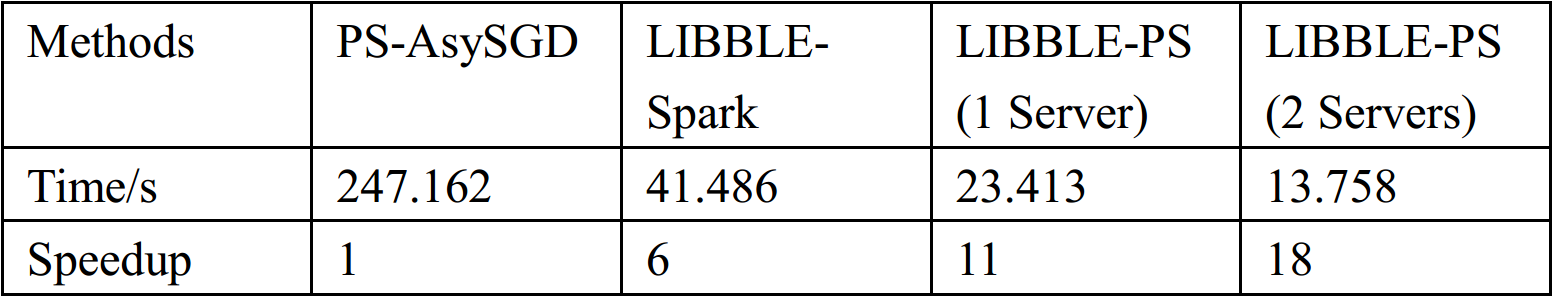
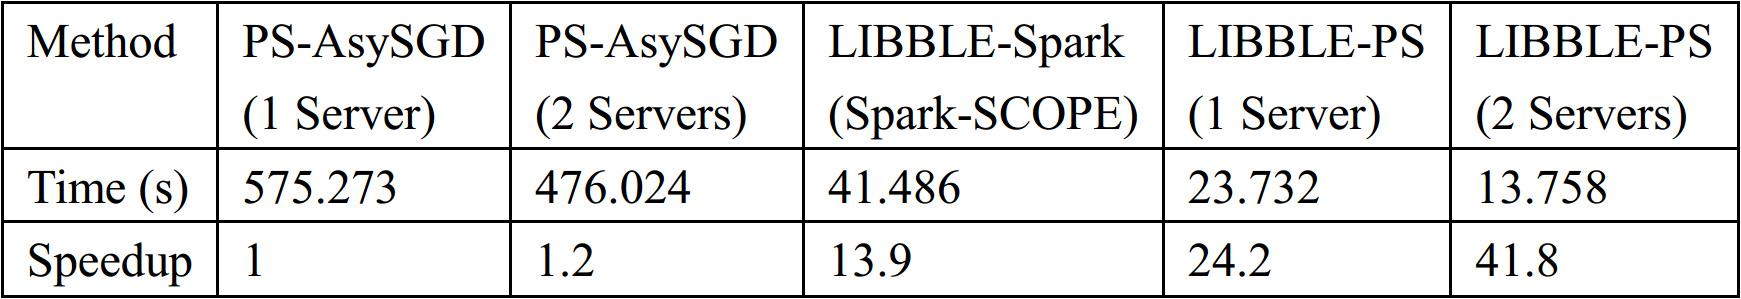
添加实验

diff --git a/libble-ps/index.html b/libble-ps/index.html
@@ -10,8 +10,8 @@
     <meta name="description" content="A Library for Big Learning">
 
     <link rel="stylesheet" href="/css/main.css">
-    <link rel="canonical" href="http://localhost:5001/libble-ps/">
-    <link rel="alternate" type="application/rss+xml" title="LIBBLE" href="http://localhost:5001/feed.xml" />
+    <link rel="canonical" href="https://libble.github.io/libble-ps/">
+    <link rel="alternate" type="application/rss+xml" title="LIBBLE" href="https://libble.github.io/feed.xml" />
 	<link type="image/x-icon" rel="shortcut icon" href="/images/icon.png" />
     <!-- <link href='https://fonts.googleapis.com/css?family=EB+Garamond' rel='stylesheet' type='text/css'>-->
 	<!-- mathjax config similar to math.stackexchange -->
@@ -202,7 +202,7 @@
 
 <p>The main Learning Engine for LIBBLE-PS is based on a distributed stochastic optimization algorithm called <a href="http://arxiv.org/abs/1602.00133">SCOPE (Scalable Composite OPtimization for lEarning)</a>. LIBBLE-PS can adopt multiple Servers and Workers in the same Parameter Server framework to achieve both data-parallelism and model-parallelism.</p>
 
-<p>We choose logistic regression (LR) with a L2-norm regularization term to evaluate LIBBLE-PS and other baselines. The result on webspam dataset (<a href="https://www.csie.ntu.edu.tw/~cjlin/libsvmtools/datasets/binary.html#webspam">$350,000$ points, $16,609,143$ dimension</a>) is shown below. Here, PS-AsySGD is the asynchronous SGD based Parameter Server proposed in <a href="http://www.cs.cmu.edu/~muli/file/parameter_server_osdi14.pdf">Mu Li, et al. OSDI 2014</a>. PS-AsySGD is implemented based on <a href="https://github.com/dmlc/ps-lite">ps-lite</a> provided by the authors of <a href="http://www.cs.cmu.edu/~muli/file/parameter_server_osdi14.pdf">Mu Li, et al. OSDI 2014</a>. Most other existing Parameter Server baselines have similar performance as PS-AsySGD. Here, we do not report the performance of them. Spark-SCOPE is the SCOPE implemented on Spark, which is included in LIBBLE-Spark. PS-SCOPE is LIBBLE-PS with the learning engine SCOPE. PS-SCOPE (1 Server) is the PS-SCOPE with one server, and PS-SCOPE (2 Servers) is the PS-SCOPE with two servers. All the methods adopt 16 Workers.</p>
+<p>We choose logistic regression (LR) with a L2-norm regularization term to evaluate LIBBLE-PS and other baselines. The result on webspam dataset (<span style="color:#b6321c">350,000 points, 16,609,143 dimension</span>) is shown below. Here, PS-AsySGD is the asynchronous SGD based Parameter Server proposed in <a href="http://www.cs.cmu.edu/~muli/file/parameter_server_osdi14.pdf">Mu Li, et al. OSDI 2014</a>. PS-AsySGD is implemented based on <a href="https://github.com/dmlc/ps-lite">ps-lite</a> provided by the authors of <a href="http://www.cs.cmu.edu/~muli/file/parameter_server_osdi14.pdf">Mu Li, et al. OSDI 2014</a>. Most other existing Parameter Server baselines have similar performance as PS-AsySGD. Here, we do not report the performance of them. Spark-SCOPE is the SCOPE implemented on Spark, which is included in LIBBLE-Spark. PS-SCOPE is LIBBLE-PS with the learning engine SCOPE. PS-SCOPE (1 Server) is the PS-SCOPE with one server, and PS-SCOPE (2 Servers) is the PS-SCOPE with two servers. All the methods adopt 16 Workers.</p>
 
 <div align="center">
 
@@ -210,7 +210,7 @@
 
   </div>
 
-<p>We also report our methods’ speedup compared to PS-AsySGD. The time is recorded when the gap between the objective function value and the optimal value is less than $10^{-3}$. The result of logistic regression with L2-norm on webspam dataset is shown below. All the methods use 16 Workers.</p>
+<p>We also report our methods’ speedup compared to PS-AsySGD. The time is recorded when the gap between the objective function value and the optimal value is less than $10^{-4}$. The result of logistic regression with L2-norm on webspam dataset is shown below. All the methods use 16 Workers.</p>
 
 <div align="center">
 

diff --git a/blog/2016/11/09/LIBBLE-Spark-1.0.1-update.html b/blog/2016/11/09/LIBBLE-Spark-1.0.1-update.html
@@ -10,8 +10,8 @@
     <meta name="description" content="With the update of  LIBBLE-Spark 1.0.1, we provide High-Dimensional Sparse Data Support!">
 
     <link rel="stylesheet" href="/css/main.css">
-    <link rel="canonical" href="http://localhost:5001/blog/2016/11/09/LIBBLE-Spark-1.0.1-update">
-    <link rel="alternate" type="application/rss+xml" title="LIBBLE" href="http://localhost:5001/feed.xml" />
+    <link rel="canonical" href="https://libble.github.io/blog/2016/11/09/LIBBLE-Spark-1.0.1-update">
+    <link rel="alternate" type="application/rss+xml" title="LIBBLE" href="https://libble.github.io/feed.xml" />
 	<link type="image/x-icon" rel="shortcut icon" href="/images/icon.png" />
     <!-- <link href='https://fonts.googleapis.com/css?family=EB+Garamond' rel='stylesheet' type='text/css'>-->
 	<!-- mathjax config similar to math.stackexchange -->

diff --git a/blog/2016/06/03/LIBBLE-Spark-Online.html b/blog/2016/06/03/LIBBLE-Spark-Online.html
@@ -10,8 +10,8 @@
     <meta name="description" content="LIBBLE-Spark online">
 
     <link rel="stylesheet" href="/css/main.css">
-    <link rel="canonical" href="http://localhost:5001/blog/2016/06/03/LIBBLE-Spark-Online">
-    <link rel="alternate" type="application/rss+xml" title="LIBBLE" href="http://localhost:5001/feed.xml" />
+    <link rel="canonical" href="https://libble.github.io/blog/2016/06/03/LIBBLE-Spark-Online">
+    <link rel="alternate" type="application/rss+xml" title="LIBBLE" href="https://libble.github.io/feed.xml" />
 	<link type="image/x-icon" rel="shortcut icon" href="/images/icon.png" />
     <!-- <link href='https://fonts.googleapis.com/css?family=EB+Garamond' rel='stylesheet' type='text/css'>-->
 	<!-- mathjax config similar to math.stackexchange -->

diff --git a/libble-multithread/index.html b/libble-multithread/index.html
@@ -10,8 +10,8 @@
     <meta name="description" content="A Library for Big Learning">
 
     <link rel="stylesheet" href="/css/main.css">
-    <link rel="canonical" href="http://localhost:5001/libble-multithread/">
-    <link rel="alternate" type="application/rss+xml" title="LIBBLE" href="http://localhost:5001/feed.xml" />
+    <link rel="canonical" href="https://libble.github.io/libble-multithread/">
+    <link rel="alternate" type="application/rss+xml" title="LIBBLE" href="https://libble.github.io/feed.xml" />
 	<link type="image/x-icon" rel="shortcut icon" href="/images/icon.png" />
     <!-- <link href='https://fonts.googleapis.com/css?family=EB+Garamond' rel='stylesheet' type='text/css'>-->
 	<!-- mathjax config similar to math.stackexchange -->

diff --git a/libble-spark/index.html b/libble-spark/index.html
@@ -10,8 +10,8 @@
     <meta name="description" content="A Library for Big Learning">
 
     <link rel="stylesheet" href="/css/main.css">
-    <link rel="canonical" href="http://localhost:5001/libble-spark/">
-    <link rel="alternate" type="application/rss+xml" title="LIBBLE" href="http://localhost:5001/feed.xml" />
+    <link rel="canonical" href="https://libble.github.io/libble-spark/">
+    <link rel="alternate" type="application/rss+xml" title="LIBBLE" href="https://libble.github.io/feed.xml" />
 	<link type="image/x-icon" rel="shortcut icon" href="/images/icon.png" />
     <!-- <link href='https://fonts.googleapis.com/css?family=EB+Garamond' rel='stylesheet' type='text/css'>-->
 	<!-- mathjax config similar to math.stackexchange -->

diff --git a/publications/index.html b/publications/index.html
@@ -10,8 +10,8 @@
     <meta name="description" content="A Library for Big Learning">
 
     <link rel="stylesheet" href="/css/main.css">
-    <link rel="canonical" href="http://localhost:5001/publications/">
-    <link rel="alternate" type="application/rss+xml" title="LIBBLE" href="http://localhost:5001/feed.xml" />
+    <link rel="canonical" href="https://libble.github.io/publications/">
+    <link rel="alternate" type="application/rss+xml" title="LIBBLE" href="https://libble.github.io/feed.xml" />
 	<link type="image/x-icon" rel="shortcut icon" href="/images/icon.png" />
     <!-- <link href='https://fonts.googleapis.com/css?family=EB+Garamond' rel='stylesheet' type='text/css'>-->
 	<!-- mathjax config similar to math.stackexchange -->

diff --git a/downloads/index.html b/downloads/index.html
@@ -10,8 +10,8 @@
     <meta name="description" content="A Library for Big Learning">
 
     <link rel="stylesheet" href="/css/main.css">
-    <link rel="canonical" href="http://localhost:5001/downloads/">
-    <link rel="alternate" type="application/rss+xml" title="LIBBLE" href="http://localhost:5001/feed.xml" />
+    <link rel="canonical" href="https://libble.github.io/downloads/">
+    <link rel="alternate" type="application/rss+xml" title="LIBBLE" href="https://libble.github.io/feed.xml" />
 	<link type="image/x-icon" rel="shortcut icon" href="/images/icon.png" />
     <!-- <link href='https://fonts.googleapis.com/css?family=EB+Garamond' rel='stylesheet' type='text/css'>-->
 	<!-- mathjax config similar to math.stackexchange -->

diff --git a/news/index.html b/news/index.html
@@ -10,8 +10,8 @@
     <meta name="description" content="A Library for Big Learning">
 
     <link rel="stylesheet" href="/css/main.css">
-    <link rel="canonical" href="http://localhost:5001/news/">
-    <link rel="alternate" type="application/rss+xml" title="LIBBLE" href="http://localhost:5001/feed.xml" />
+    <link rel="canonical" href="https://libble.github.io/news/">
+    <link rel="alternate" type="application/rss+xml" title="LIBBLE" href="https://libble.github.io/feed.xml" />
 	<link type="image/x-icon" rel="shortcut icon" href="/images/icon.png" />
     <!-- <link href='https://fonts.googleapis.com/css?family=EB+Garamond' rel='stylesheet' type='text/css'>-->
 	<!-- mathjax config similar to math.stackexchange -->

diff --git a/index.html b/index.html
@@ -10,8 +10,8 @@
     <meta name="description" content="A Library for Big Learning">
 
     <link rel="stylesheet" href="/css/main.css">
-    <link rel="canonical" href="http://localhost:5001/">
-    <link rel="alternate" type="application/rss+xml" title="LIBBLE" href="http://localhost:5001/feed.xml" />
+    <link rel="canonical" href="https://libble.github.io/">
+    <link rel="alternate" type="application/rss+xml" title="LIBBLE" href="https://libble.github.io/feed.xml" />
 	<link type="image/x-icon" rel="shortcut icon" href="/images/icon.png" />
     <!-- <link href='https://fonts.googleapis.com/css?family=EB+Garamond' rel='stylesheet' type='text/css'>-->
 	<!-- mathjax config similar to math.stackexchange -->
